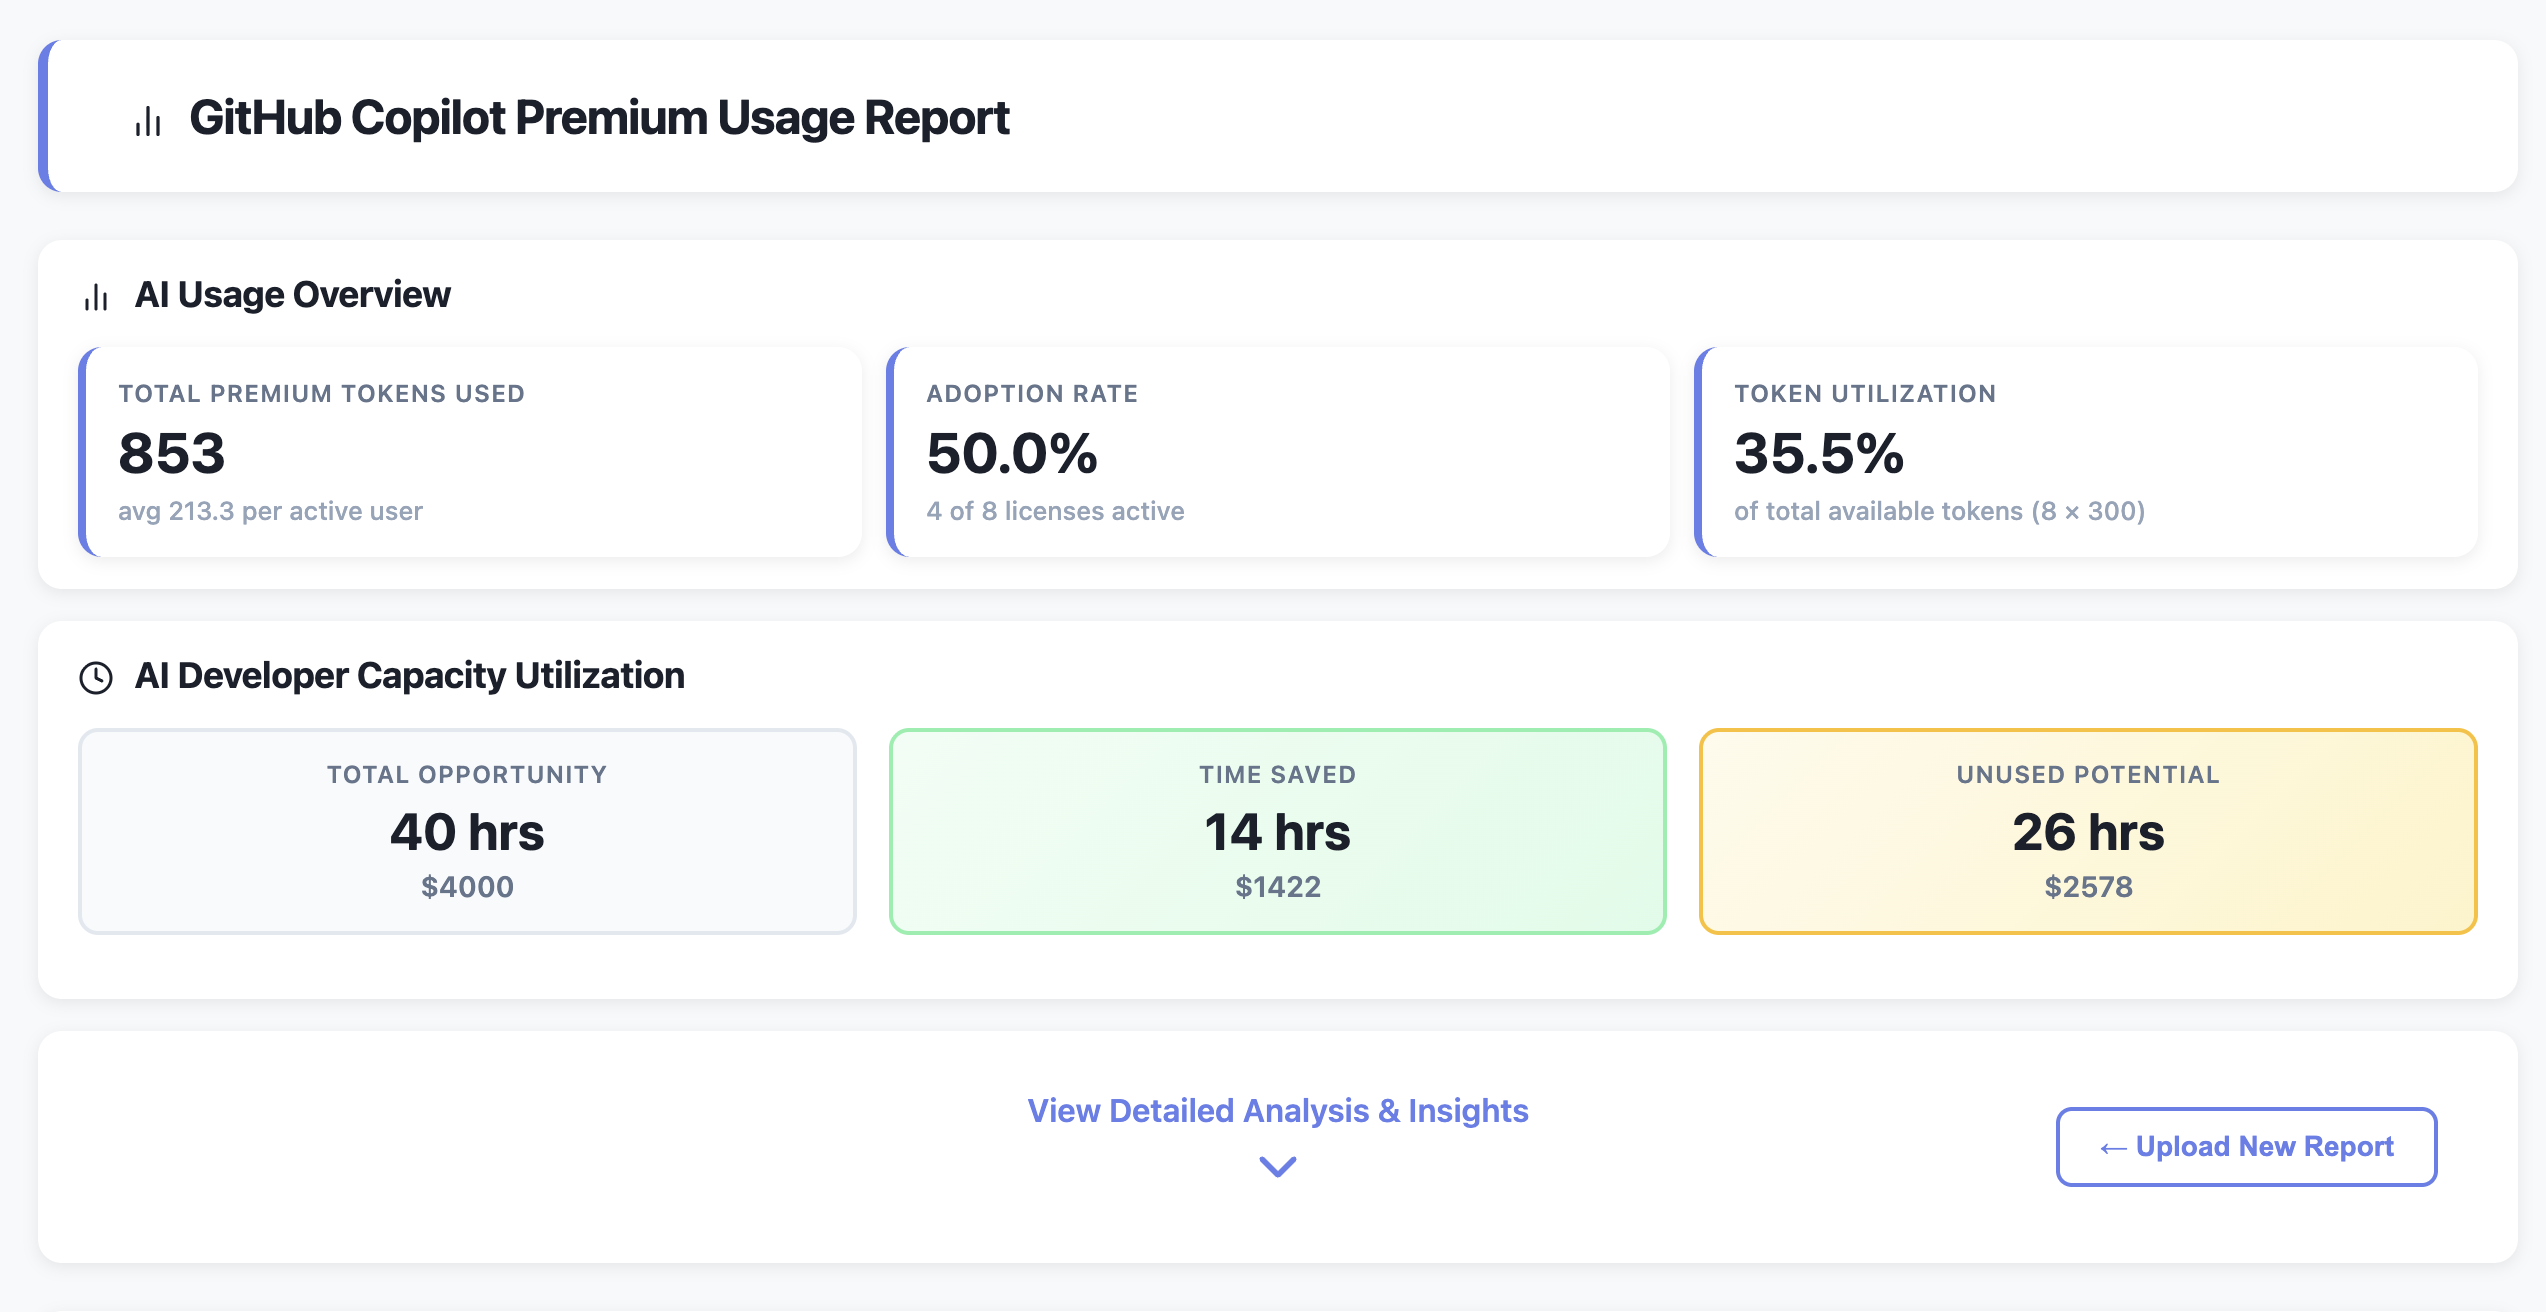
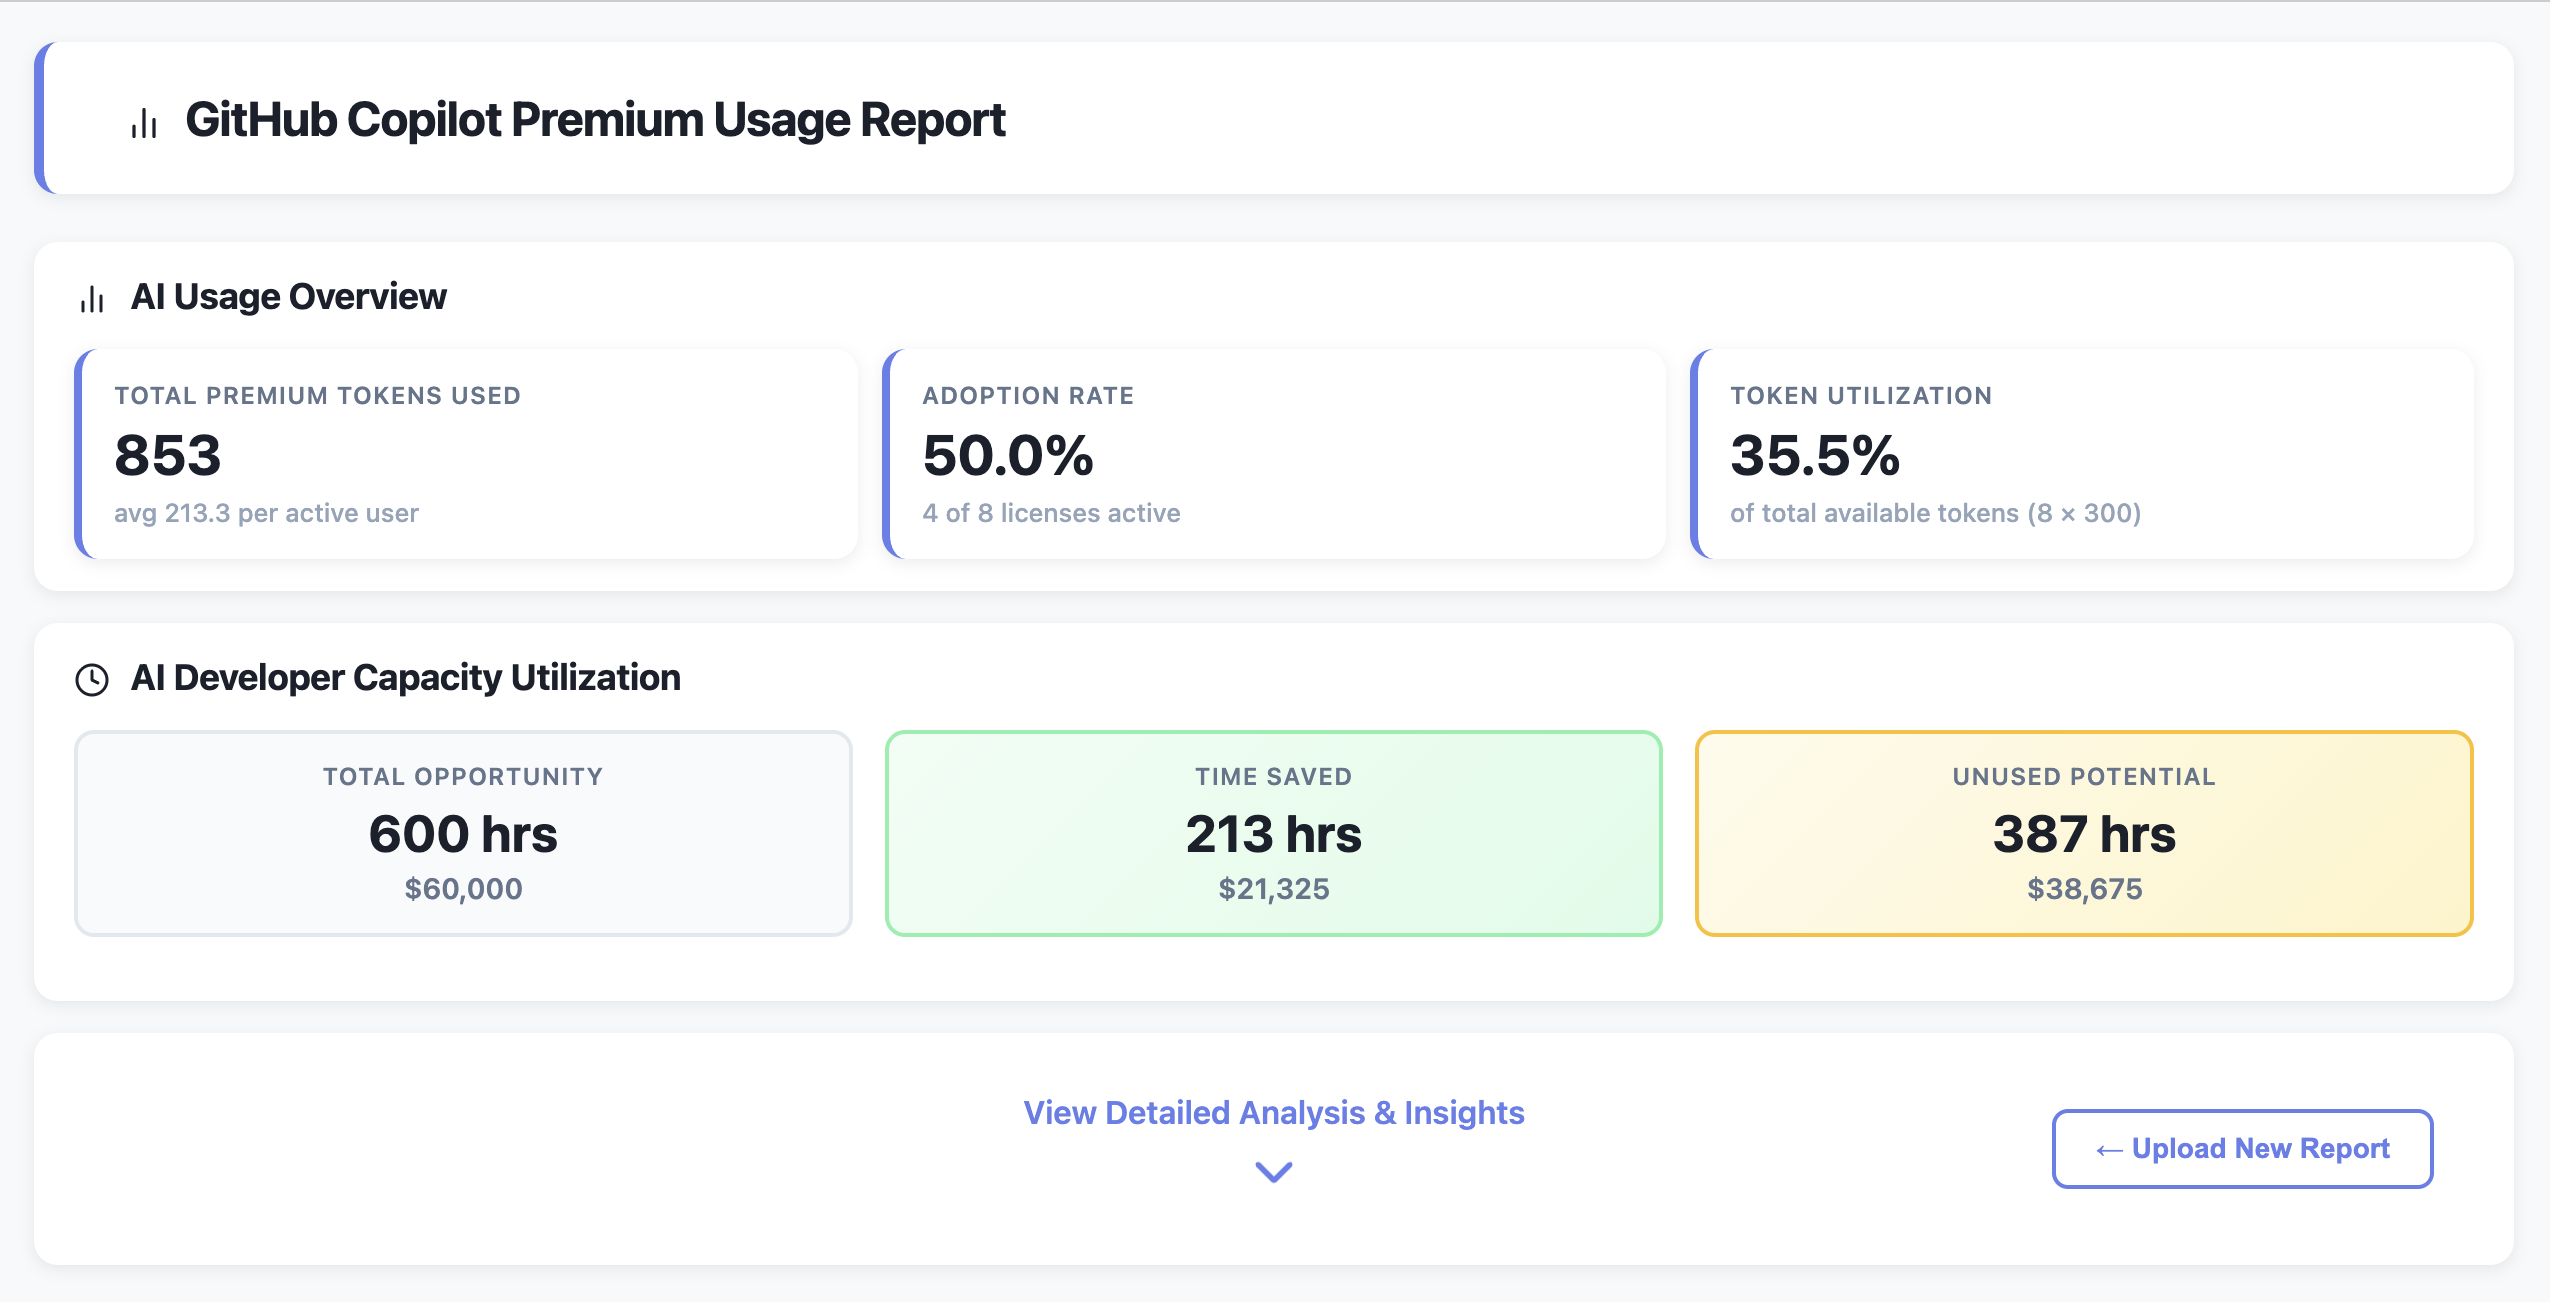
Enhance README.md: add key insights and critical opportunities regarding premium token usage and ROI; improve clarity on AI capacity calculations. Update index.html: adjust productivity metrics calculations to reflect premium requests as minutes of AI capacity. Update productivity metric display to 

diff --git a/index.html b/index.html
@@ -1201,17 +1201,18 @@
         function renderProductivity(metrics) {
             const container = document.getElementById('productivityContent');
             
-            // Get monthly quota from data (should be 300 minutes per seat)
-            const monthlyQuotaPerSeat = 300; // minutes per seat from total_monthly_quota column
+            // Get monthly quota from data
+            const monthlyQuotaPerSeat = 300; // premium requests per seat
+            const minutesPerRequest = 15; // Each request = 15 minutes of AI capacity
             const totalSeats = metrics.totalSeats;
             
             // Total opportunity in minutes and hours
-            const totalMinutesAvailable = totalSeats * monthlyQuotaPerSeat;
+            const totalMinutesAvailable = totalSeats * monthlyQuotaPerSeat * minutesPerRequest;
             const totalHoursAvailable = totalMinutesAvailable / 60;
             
             // Calculate hours used based on proportion of requests
             const usedRequests = metrics.totalRequests;
-            const totalAvailableRequests = totalMinutesAvailable; // Assuming 1 request = 1 minute of quota
+            const totalAvailableRequests = totalSeats * monthlyQuotaPerSeat;
             const hoursUsed = (usedRequests / totalAvailableRequests) * totalHoursAvailable;
             
             // Calculate lost hours
@@ -1229,17 +1230,17 @@
                     <div class="productivity-metric">
                         <div class="productivity-metric-label">Total Opportunity</div>
                         <div class="productivity-metric-value">${totalHoursAvailable.toFixed(0)} hrs</div>
-                        <div class="productivity-metric-subtitle">$${totalValue.toFixed(0)}</div>
+                        <div class="productivity-metric-subtitle">$${totalValue.toLocaleString('en-US', {minimumFractionDigits: 0, maximumFractionDigits: 0})}</div>
                     </div>
                     <div class="productivity-metric productivity-metric-success">
                         <div class="productivity-metric-label">Time Saved</div>
                         <div class="productivity-metric-value">${hoursUsed.toFixed(0)} hrs</div>
-                        <div class="productivity-metric-subtitle">$${usedValue.toFixed(0)}</div>
+                        <div class="productivity-metric-subtitle">$${usedValue.toLocaleString('en-US', {minimumFractionDigits: 0, maximumFractionDigits: 0})}</div>
                     </div>
                     <div class="productivity-metric productivity-metric-warning">
                         <div class="productivity-metric-label">Unused Potential</div>
                         <div class="productivity-metric-value">${hoursLost.toFixed(0)} hrs</div>
-                        <div class="productivity-metric-subtitle">$${lostValue.toFixed(0)}</div>
+                        <div class="productivity-metric-subtitle">$${lostValue.toLocaleString('en-US', {minimumFractionDigits: 0, maximumFractionDigits: 0})}</div>
                     </div>
                 </div>
             `;

diff --git a/README.md b/README.md
@@ -62,6 +62,9 @@ Premium tokens power **GitHub Copilot Chat** - an interactive AI pair programmin
 
 **The Bottom Line:** Premium tokens represent your team's capacity to leverage advanced AI for complex development tasks. Unused tokens = missed opportunities for velocity, quality, and developer satisfaction.
 
+> **💡 KEY INSIGHT**  
+> Premium tokens represent your team's capacity to leverage advanced AI for complex development tasks. **Unused tokens = missed opportunities for velocity, quality, and developer satisfaction.**
+
 This analyzer helps you measure how effectively your team is using this AI capacity and identify opportunities to increase ROI.
 
 ### ⚠ Critical: Premium Features Must Be Enabled
@@ -76,6 +79,9 @@ This analyzer helps you measure how effectively your team is using this AI capac
 - ❌ No premium AI models (GPT-4, Claude 3.5 Sonnet, etc.)
 - ❌ **Your organization is paying for Premium but receiving Standard value**
 - ❌ **300 tokens per seat per month go completely unused** - representing hundreds of hours of potential productivity gains left on the table
+
+> **⚠ CRITICAL OPPORTUNITY**  
+> If your analyzer shows **zero or very low token usage**, premium features may not be enabled organization-wide. **This represents hundreds of hours per month of AI capacity your team is already paying for but not using.** A team of 10 developers with unused quotas = **3,000 hours (125 days) of potential productivity disappearing every month.**
 
 **If premium features are enabled:**
 - ✅ Developers can access the full suite of AI pair programming tools
@@ -93,7 +99,8 @@ Organization administrators should:
 3. **Communicate to Developers**: Ensure team members know these features are available and how to access them in their IDE (VS Code, Visual Studio, JetBrains, etc.)
 4. **Monitor Usage**: Use this analyzer to track adoption and ensure you're getting value from your investment
 
-**Important:** If your analyzer shows zero or very low token usage, premium features may not be enabled organization-wide. This represents a critical opportunity to unlock significant productivity gains your team is already paying for.
+> **💰 ROI REALITY CHECK**  
+> **You've already paid for 300 premium requests per developer per month.** Failing to enable premium features means paying for advanced AI capabilities while receiving only basic autocomplete. **Unused quota resets monthly - it's use it or lose it.**
 
 ## 🚀 Quick Start
 
@@ -176,6 +183,10 @@ GitHub Copilot Premium allocates a monthly quota measured in **premium requests*
 
 This assumption is based on the value that AI pair programming features (like extended conversations with Claude or GPT-4) provide as **virtual developer capacity** added to your team. Each premium request represents an interaction with Copilot Chat where AI assistance handles work that would otherwise require manual developer effort - asking questions, generating code, debugging, or reviewing - effectively adding 15 minutes of productive capacity to your team for each interaction.
 
+> **📊 CAPACITY CALCULATION**  
+> **300 premium requests × 15 minutes = 75 hours of AI capacity per developer per month**  
+> This is virtual developer capacity added to your team. A team of 10 = **750 hours/month of AI-assisted development capacity** included in your Premium licenses.
+
 ### Why Enable These Pre-Paid Features?
 
 Organizations purchase Copilot Premium licenses as a **pre-paid investment** in developer productivity - paying upfront for 300 premium requests per developer per month. However, **these requests only deliver value when they're actually used**. 
@@ -190,7 +201,8 @@ Enabling premium features is critical because:
 
 - **Measurable ROI**: With premium features enabled and this analyzer tracking usage, leadership can demonstrate concrete ROI through metrics like time saved, adoption rates, and productivity impact - turning an abstract "AI investment" into quantifiable business value.
 
-**Bottom line**: If your organization is paying for Copilot Premium but hasn't enabled premium features, you're funding innovation for competitors while your own teams work without the AI advantage you've already purchased.
+> **🚨 BOTTOM LINE**  
+> **If your organization is paying for Copilot Premium but hasn't enabled premium features, you're funding innovation for competitors while your own teams work without the AI advantage you've already purchased.**
 
 ### Token-to-Time Conversion
 
